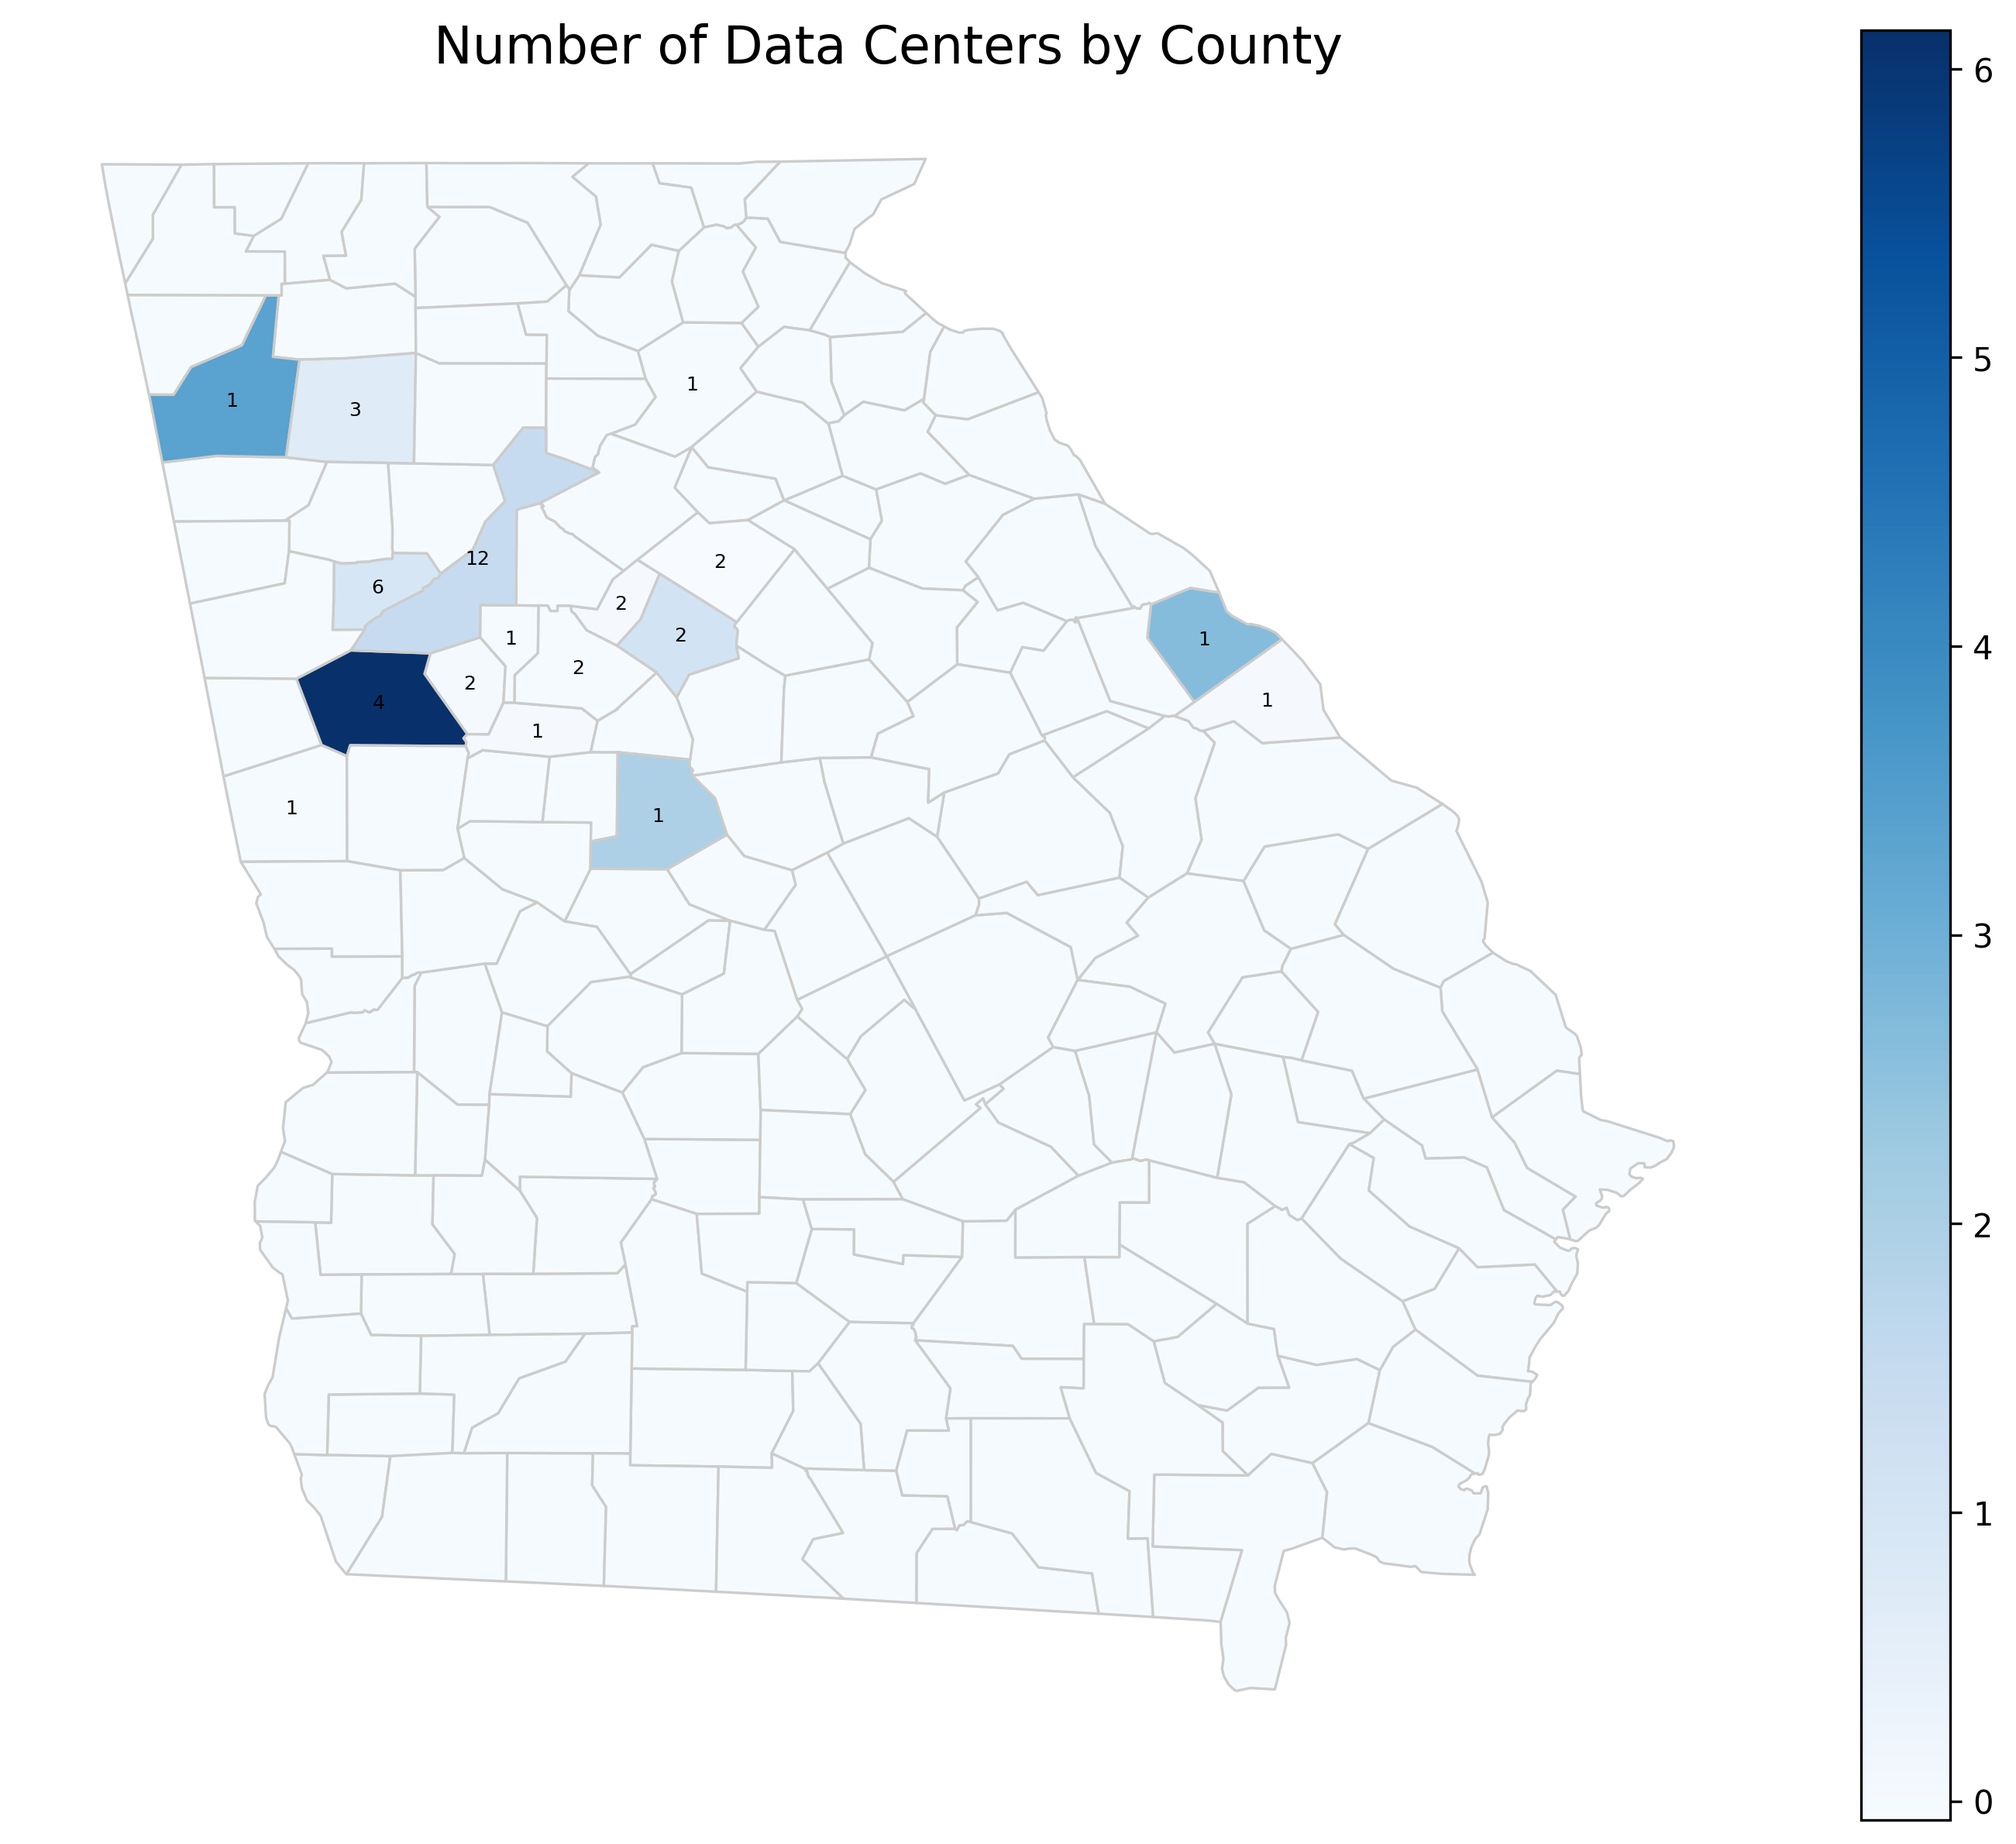
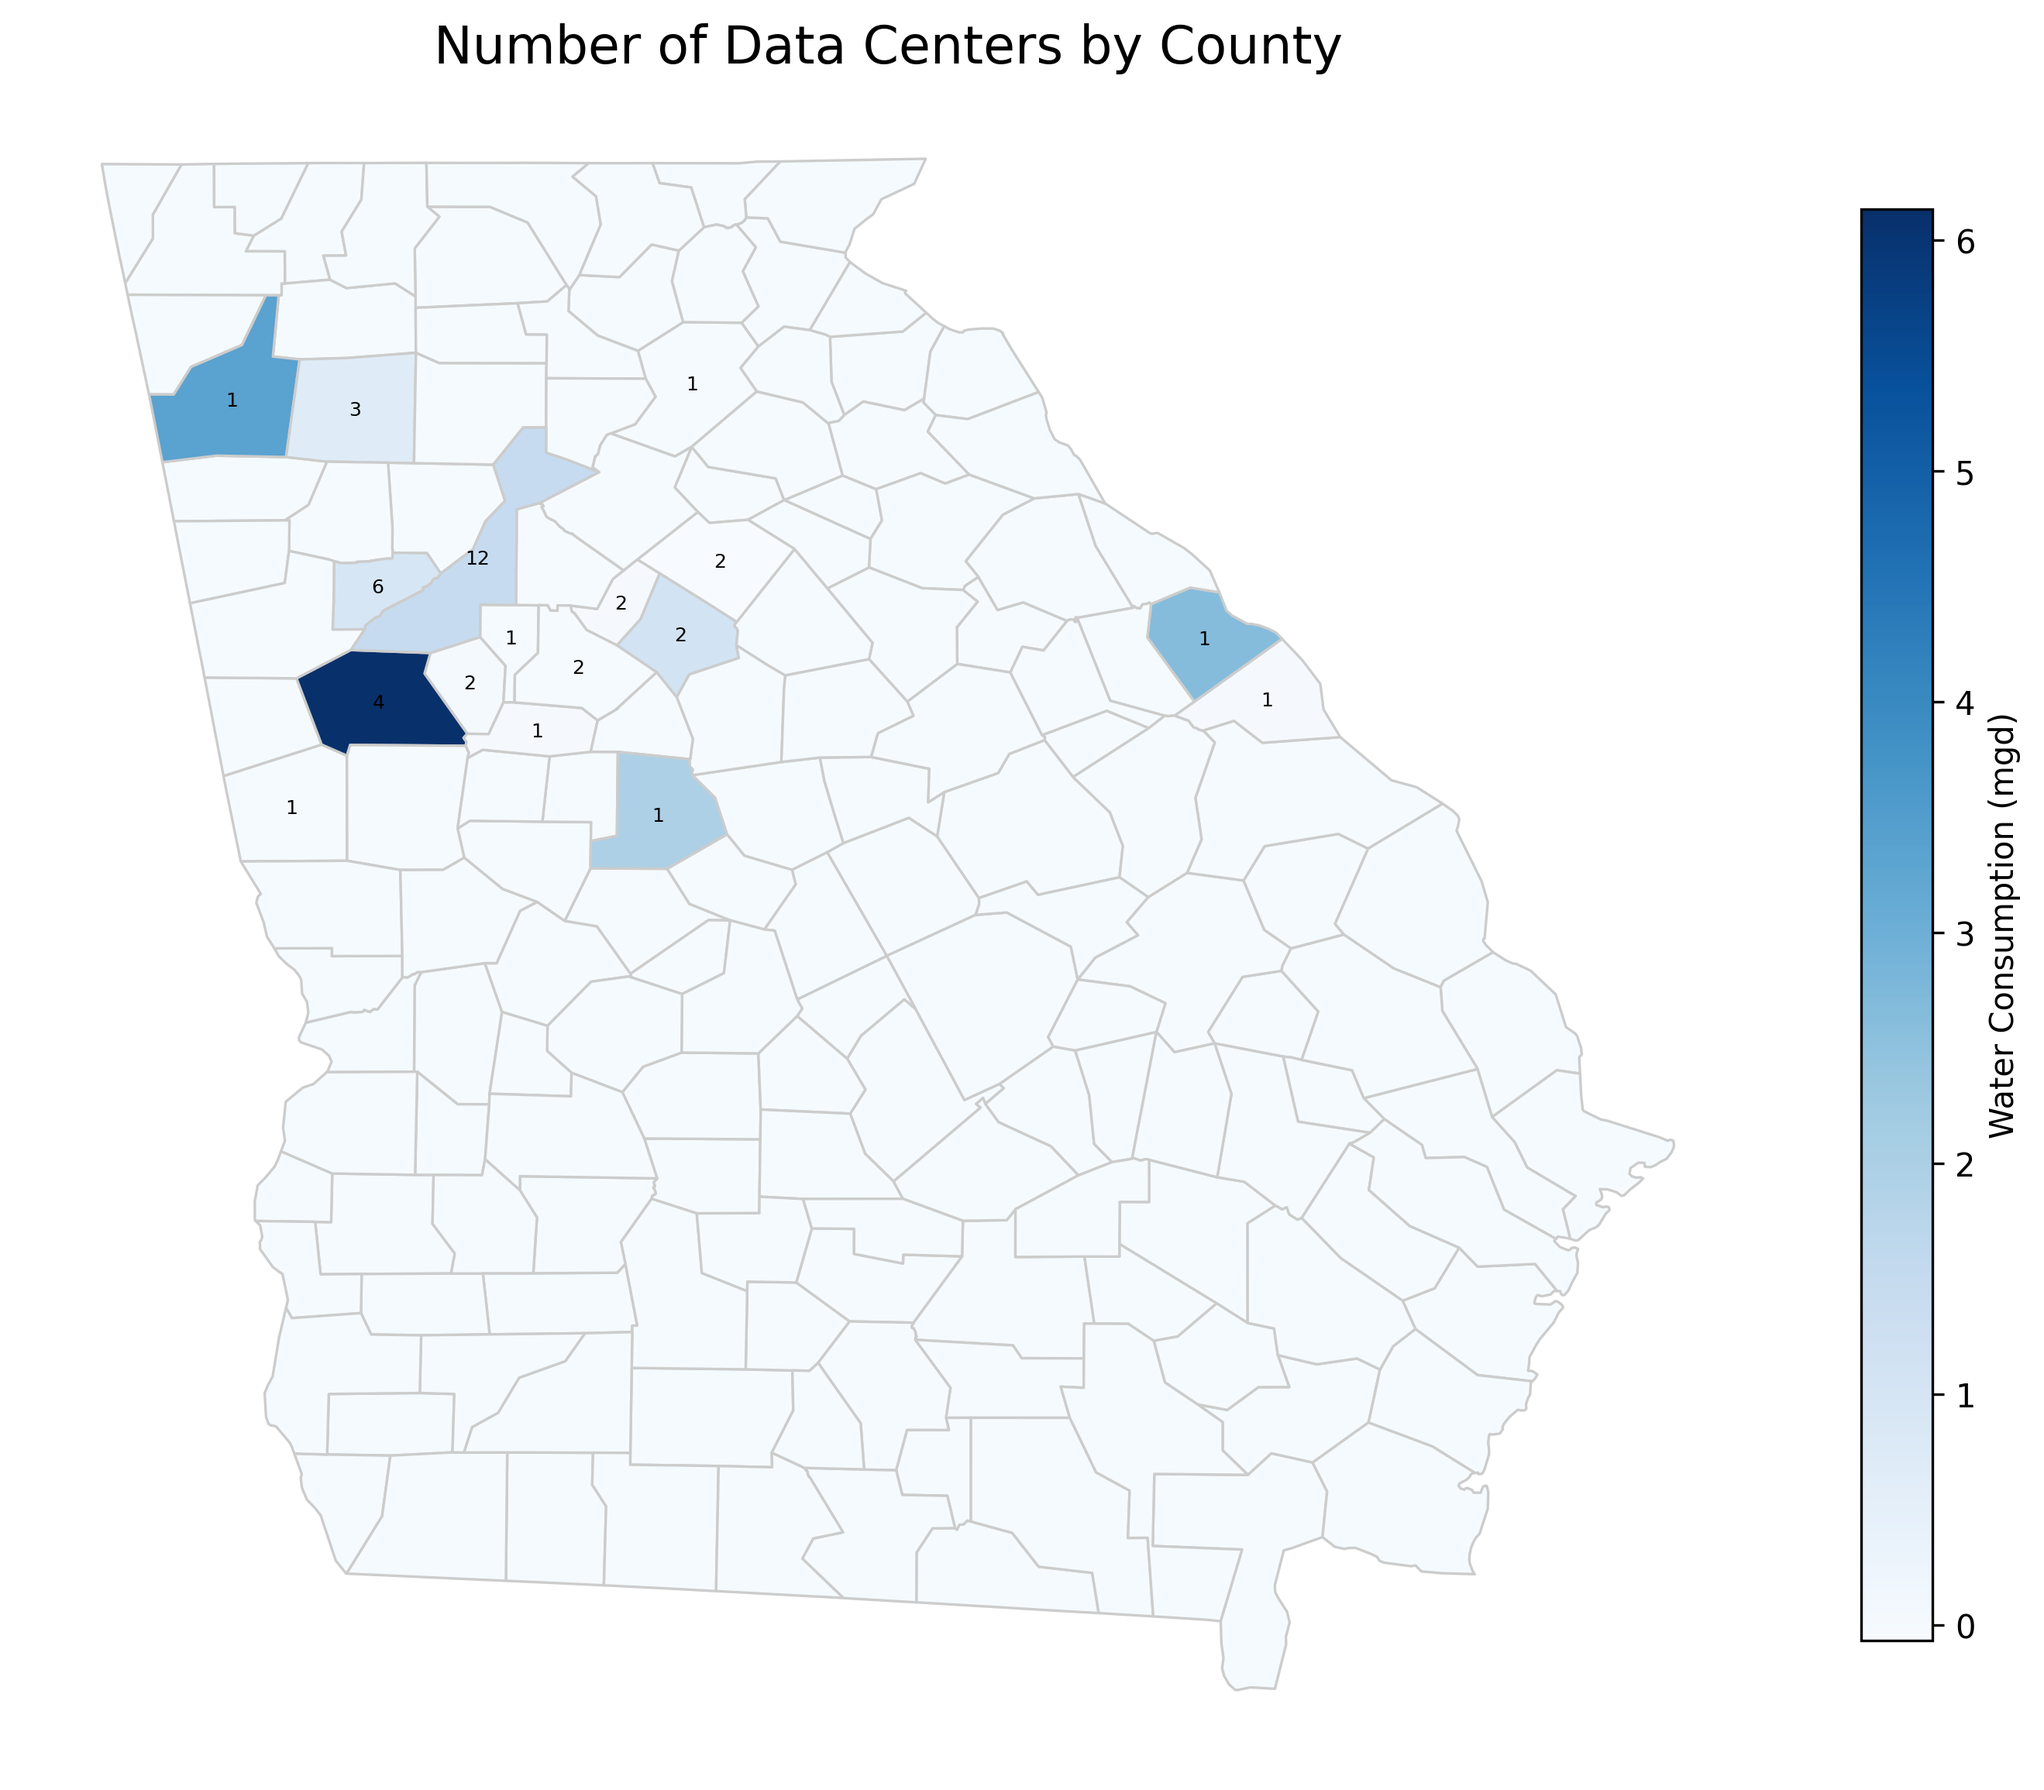
added label to legend of map visualization

diff --git a/scripts/water_data_visualizations.py b/scripts/water_data_visualizations.py
@@ -62,7 +62,18 @@ def map_visualzation_matplotlib():
     fig, ax = plt.subplots(1, 1, figsize=(12, 10))
 
     # Plot choropleth
-    gdf.plot(column="Water_Consumption", cmap="Blues", linewidth=0.8, edgecolor='0.8', legend=True, ax=ax)
+    gdf.plot(column="Water_Consumption", 
+             cmap="Blues", 
+             linewidth=0.8, 
+             edgecolor='0.8', 
+             legend=True, 
+             ax=ax,
+             legend_kwds={
+                'label': "Water Consumption (mgd)",  # ← your legend title
+                'orientation': "vertical",           # or "horizontal"
+                'shrink': 0.8                        # optional: scales the colorbar
+            }
+        )
 
     positions = [
     {"offset": (0.2, 0.2), "ha": "left", "va": "bottom"},    # right-up
